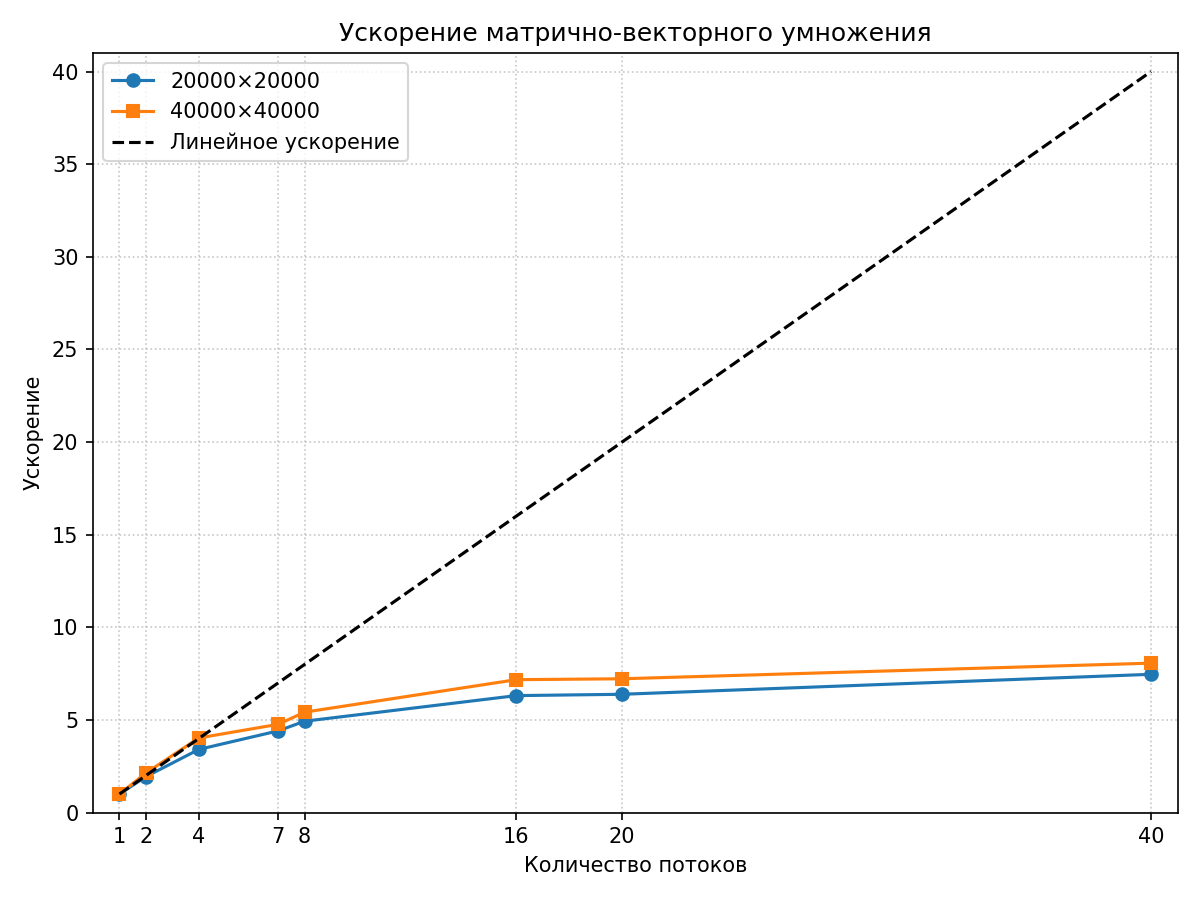
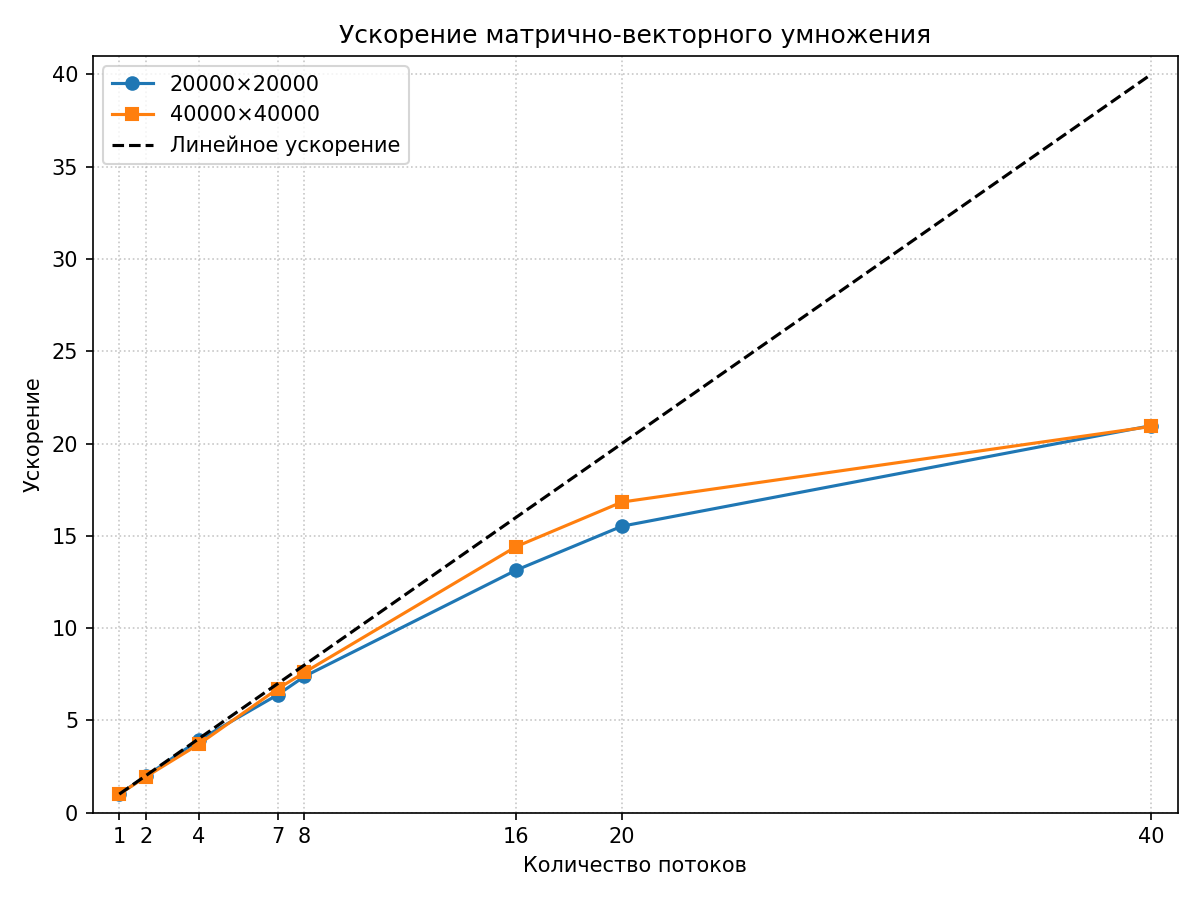
rework lab-1

diff --git a/task-2/Lab-1/main-1.cpp b/task-2/Lab-1/main-1.cpp
@@ -1,4 +1,3 @@
-// matrix_vector_mult_simple_info.cpp
 #include <iostream>
 #include <vector>
 #include <thread>
@@ -11,7 +10,6 @@
 using namespace std;
 using namespace chrono;
 
-// ---------- Таймер ----------
 class Timer {
     high_resolution_clock::time_point start;
 public:
@@ -22,20 +20,24 @@ public:
     }
 };
 
-// ---------- Функции для заполнения данных (как в оригинале) ----------
 void fill_matrix_row(double* row, int n, int row_idx) {
     for (int j = 0; j < n; j++) {
         row[j] = sin(row_idx * 0.001) * cos(j * 0.001);
     }
 }
 
-void fill_vector(double* vec, int n) {
-    for (int i = 0; i < n; i++) {
+void fill_matrix_part(double* A, int n, int start_row, int end_row) {
+    for (int i = start_row; i < end_row; ++i) {
+        fill_matrix_row(A + (long long)i * n, n, i);
+    }
+}
+
+void fill_vector_part(double* vec, int start, int end) {
+    for (int i = start; i < end; ++i) {
         vec[i] = exp(i * 0.0001);
     }
 }
 
-// ---------- Умножение части матрицы на вектор ----------
 void mult_part(const double* A, const double* x, double* y, int n, int start, int end) {
     for (int i = start; i < end; i++) {
         double sum = 0;
@@ -47,124 +49,109 @@ void mult_part(const double* A, const double* x, double* y, int n, int start, in
     }
 }
 
-// ---------- Информация о вычислительном узле ----------
-void print_system_info() {
-    cout << "\nИНФОРМАЦИЯ О ВЫЧИСЛИТЕЛЬНОМ УЗЛЕ\n";
+int main(){
+    
+    cout << "\nИнформация о вычислительном узле:\n";
     system("lscpu | grep -E 'Model name|CPU\\(s\\)|Thread\\(s\\) per core|Core\\(s\\) per socket|Socket\\(s\\)|L3 cache'");
-    cout << "\n--- Модель сервера ---\n";
+    cout << "\nМодель сервера:\n";
     system("cat /sys/devices/virtual/dmi/id/product_name 2>/dev/null || echo 'Недоступно'");
-    cout << "\n--- NUMA ноды ---\n";
+    cout << "\nNUMA ноды:\n";
     system("numactl --hardware 2>/dev/null | grep -A 10 'available' || echo 'numactl не установлен'");
-    cout << "\n--- Оперативная память ---\n";
+    cout << "\nОперативная память:\n";
     system("free -h | grep Mem");
-    cout << "\n--- Операционная система ---\n";
+    cout << "\nОперационная система:\n";
     system("cat /etc/os-release | grep -E 'PRETTY_NAME|VERSION' | head -2");
-}
-
-// ---------- Главная функция ----------
-int main(int argc, char* argv[]) {
-    // Если аргументов нет – просто показываем информацию о системе
-    if (argc == 1) {
-        print_system_info();
-        return 0;
+    
+    vector<int> sizes = {20000, 40000};
+    vector<int> threads_list = {1, 2, 4, 7, 8, 16, 20, 40};
+    
+    ofstream data_file("benchmark_data.txt");
+    if (!data_file.is_open()) {
+        cerr << "Ошибка: не удалось создать файл benchmark_data.txt\n";
+        return 1;
     }
     
-    // Режим сбора данных для графиков
-    if (argc == 2 && string(argv[1]) == "--benchmark") {
-        cout << "\n=== СБОР ДАННЫХ ДЛЯ ГРАФИКОВ ===\n";
+    // Число потоков для инициализации 
+    const int init_threads_count = 4;
+    
+    for (int size : sizes){
+        cout << "\nРазмер матрицы: " << size << "x" << size << "\n";
         
-        // Для контекста покажем информацию об узле
-        print_system_info();
+        double* A = new double[(long long)size * size];
+        double* x = new double[size];
+        double* y = new double[size];
         
-        // Параметры тестирования (как в исходном задании)
-        vector<int> sizes = {20000, 40000};
-        vector<int> threads_list = {1, 2, 4, 7, 8, 16, 20, 40};
-        
-        // Открываем файл для записи
-        ofstream data_file("benchmark_data.txt");
-        if (!data_file.is_open()) {
-            cerr << "Ошибка: не удалось создать файл benchmark_data.txt\n";
-            return 1;
-        }
-        
-        data_file << "# Результаты тестирования (простая версия с информацией об узлах)\n";
-        data_file << "# Формат: размер_матрицы количество_потоков время_выполнения ускорение\n\n";
-        
-        // Тестируем каждый размер матрицы
-        for (int size : sizes) {
-            cout << "\nРазмер матрицы: " << size << "x" << size << "\n";
-            double mem_gb = (size * size * sizeof(double)) / (1024.0 * 1024.0 * 1024.0);
-            cout << "Память под матрицу: " << fixed << setprecision(2) << mem_gb << " GB\n";
-            
-            // Выделяем память и заполняем данные ОДИН РАЗ для этого размера
-            double* A = new double[(long long)size * size];
-            double* x = new double[size];
-            double* y = new double[size];   // для результата
-            
-            cout << "  Генерация матрицы... " << flush;
-            for (int i = 0; i < size; i++) {
-                fill_matrix_row(A + (long long)i * size, size, i);
+        // Параллельная инициализация матрицы
+        cout << "  Генерация матрицы (параллельно, " << init_threads_count << " потока)..." << flush;
+        {
+            vector<thread> init_threads;
+            int rows_per_thread = size / init_threads_count;
+            for (int t = 0; t < init_threads_count; ++t) {
+                int start = t * rows_per_thread;
+                int end = (t == init_threads_count-1) ? size : (t+1) * rows_per_thread;
+                init_threads.emplace_back(fill_matrix_part, A, size, start, end);
             }
-            cout << "готово\n";
+            for (auto& th : init_threads) th.join();
+        }
+        cout << "готово\n";
+        
+        // Параллельная инициализация вектора (разобьём на те же части)
+        cout << "  Генерация вектора (параллельно)..." << flush;
+        {
+            vector<thread> init_threads;
+            int elems_per_thread = size / init_threads_count;
+            for (int t = 0; t < init_threads_count; ++t) {
+                int start = t * elems_per_thread;
+                int end = (t == init_threads_count-1) ? size : (t+1) * elems_per_thread;
+                init_threads.emplace_back(fill_vector_part, x, start, end);
+            }
+            for (auto& th : init_threads) th.join();
+        }
+        cout << "готово\n";
+        
+        double base_time = 0;
+        
+        for (int threads : threads_list) {
+            cout << "  Потоков " <<  threads << ": " << flush;
             
-            cout << "  Генерация вектора... " << flush;
-            fill_vector(x, size);
-            cout << "готово\n";
+            double total_time = 0;
+            const int iterations = 3;
             
-            double base_time = 0;   // время выполнения с 1 потоком
-            
-            // Перебираем разные количества потоков
-            for (int threads : threads_list) {
-                cout << "  Потоков " << setw(2) << threads << ": " << flush;
+            for (int iter = 0; iter < iterations; iter++) {
+                Timer timer;
                 
-                double total_time = 0;
-                const int iterations = 3;   // делаем 3 замера и усредняем
+                vector<thread> workers;
+                int rows_per_thread = size / threads;
                 
-                for (int iter = 0; iter < iterations; iter++) {
-                    Timer timer;
-                    
-                    // Запускаем потоки для умножения
-                    vector<thread> workers;
-                    int rows_per_thread = size / threads;
-                    
-                    for (int t = 0; t < threads; t++) {
-                        int start = t * rows_per_thread;
-                        int end = (t == threads-1) ? size : (t+1) * rows_per_thread;
-                        workers.emplace_back(mult_part, A, x, y, size, start, end);
-                    }
-                    for (auto& w : workers) w.join();
-                    
-                    total_time += timer.elapsed();
+                for (int t = 0; t < threads; t++) {
+                    int start = t * rows_per_thread;
+                    int end = (t == threads-1) ? size : (t+1) * rows_per_thread;
+                    workers.emplace_back(mult_part, A, x, y, size, start, end);
                 }
                 
-                double avg_time = total_time / iterations;
+                for (auto& w : workers) w.join();
                 
-                if (threads == 1) base_time = avg_time;
-                double speedup = base_time / avg_time;
-                
-                cout << fixed << setprecision(2) << avg_time << " с, "
-                     << "ускорение " << setprecision(2) << speedup << endl;
-                
-                data_file << size << " " << threads << " "
-                         << avg_time << " " << speedup << "\n";
+                total_time += timer.elapsed();
             }
             
-            // Освобождаем память после тестов для этого размера
-            delete[] A;
-            delete[] x;
-            delete[] y;
+            double avg_time = total_time / iterations;
+            
+            if (threads == 1) base_time = avg_time;
+            double speedup = base_time / avg_time;
+            
+            cout << fixed << setprecision(2) << avg_time << " с, "
+                 << "ускорение " << setprecision(2) << speedup << endl;
+            
+            data_file << size << " " << threads << " "
+                     << avg_time << " " << speedup << "\n";
         }
         
-        data_file.close();
-        cout << "\n✓ Данные сохранены в файл: benchmark_data.txt\n";
-        cout << "  Теперь можно запустить Python-скрипт для построения графиков.\n";
-        
-        return 0;
+        delete[] A;
+        delete[] x;
+        delete[] y;
     }
     
-    // Если аргументы не соответствуют ни одному из режимов
-    cout << "Использование:\n";
-    cout << "  " << argv[0] << "                - информация о системе\n";
-    cout << "  " << argv[0] << " --benchmark    - сбор данных для графиков\n";
+    data_file.close();
+    cout << "\nДанные сохранены в файл: benchmark_data.txt\n";
     return 0;
 }
